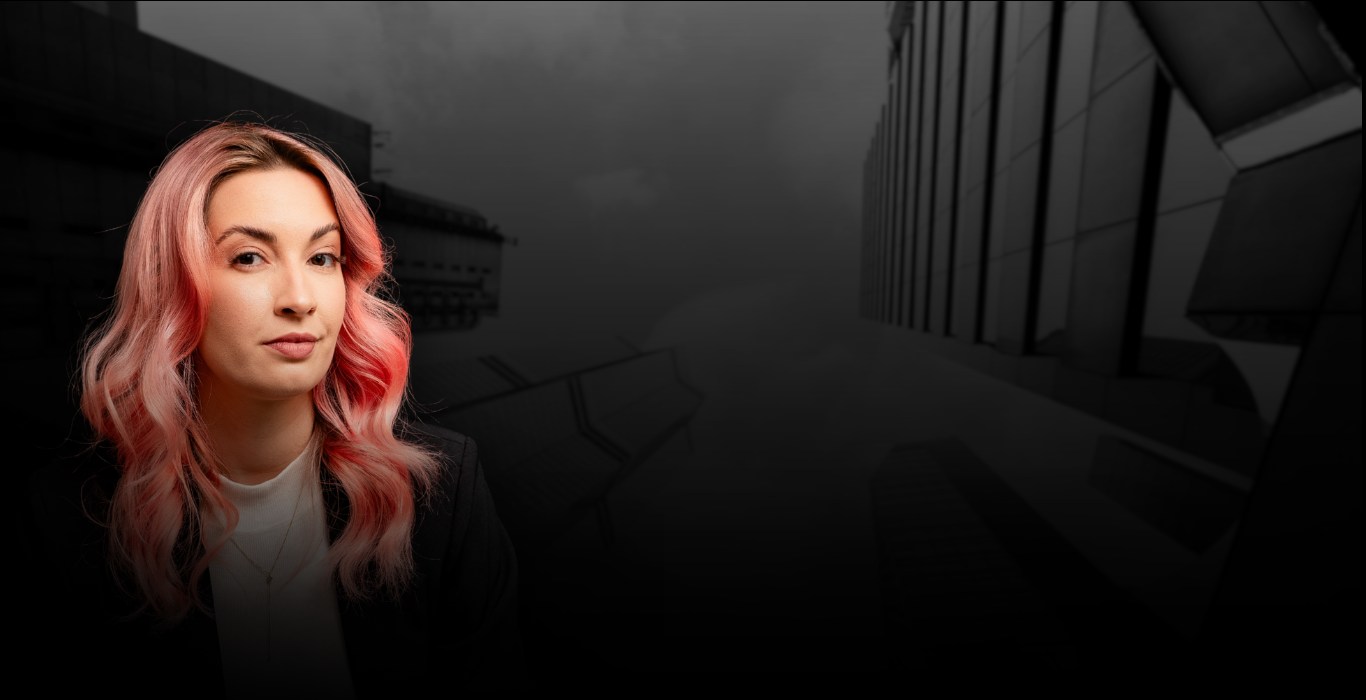
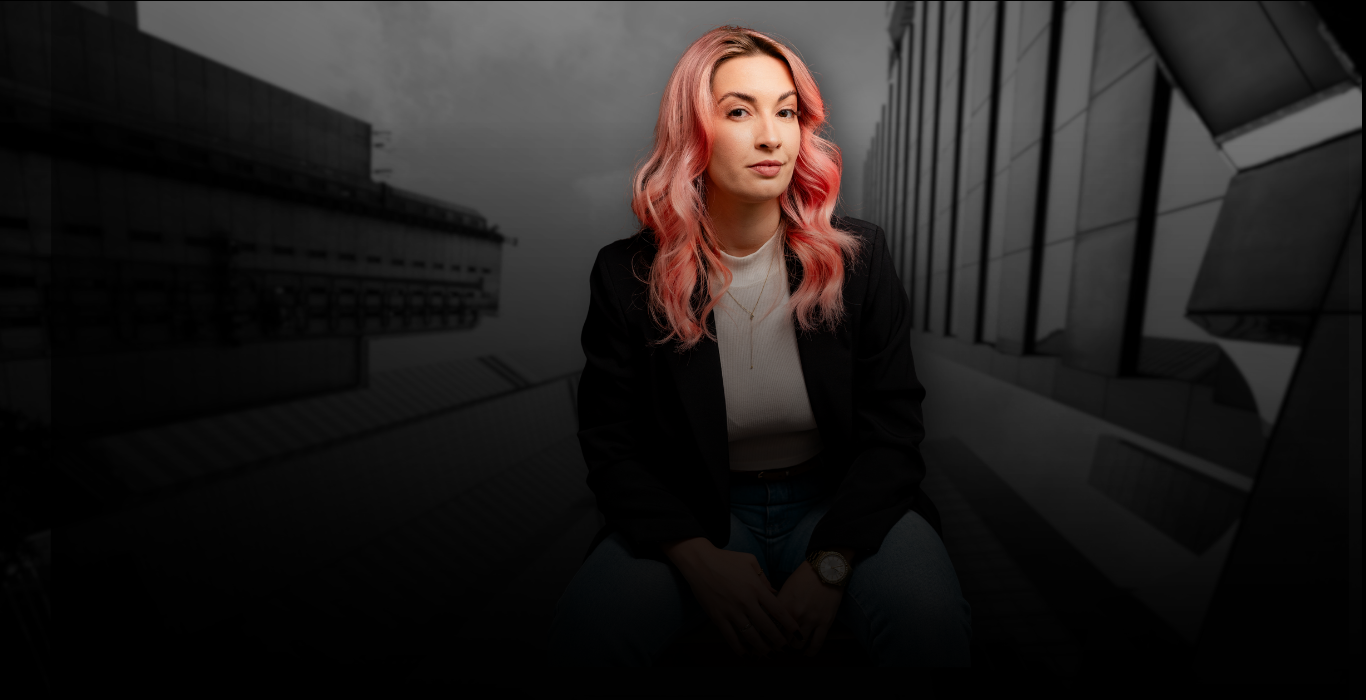
imagens operação impulse

diff --git a/style.css b/style.css
@@ -912,7 +912,7 @@ html, body {
     max-width: 1400px;
     margin: 0 auto;
     z-index: 0;
-    background-image: url('opimpulse-secao3-praqueme.png');
+    background-image: url('imagens-operacaoimpulse/opimpulse-secao3-praqueme-desktop.png');
     background-size: cover;
     background-position: center;
 }
@@ -1209,7 +1209,7 @@ html, body {
     max-width: 1400px;
     margin: 0 auto;
     z-index: 0;
-    background-image: url('operacaoimpulse-resultadosreais.png');
+    background-image: url('imagens-operacaoimpulse/resultadosreais-operacaoimpulse-desktop.png');
     background-size: cover;
     background-position: center;
 }
@@ -1251,7 +1251,7 @@ html, body {
     max-width: 1400px;
     margin: 0 auto;
     z-index: 0;
-    background-image: url('operacaoimpulse-quemethais.png');
+    background-image: url('imagens-operacaoimpulse/quemethais-operacaoimpulse-desktop.png');
     background-size: cover;
     background-position: center;
 }
@@ -1355,7 +1355,7 @@ html, body {
     max-width: 1400px;
     margin: 0 auto;
     z-index: 0;
-    background-image: url('operacaoimpulse-paginafinal.png');
+    background-image: url('imagens-operacaoimpulse/paginafinal-operacaoimpulse-desktop.png');
     background-size: cover;
     background-position: center;
 }
@@ -3488,6 +3488,10 @@ html, body {
         justify-content: flex-start;
     }
 
+    .paraquem-bg {
+        background-image: url('imagens-operacaoimpulse/opimpulse-secao3-praqueme-mobile.png');
+    }
+
     .paraquem-grid {
         grid-template-columns: 1fr;
     }
@@ -3516,6 +3520,7 @@ html, body {
     }
 
     .quemteguia-bg {
+        background-image: url('imagens-operacaoimpulse/quemethais-operacaoimpulse-mobile.png');
         background-position: right top;
     }
 
@@ -3538,5 +3543,13 @@ html, body {
 
     .resultados {
         min-height: 400px;
+    }
+
+    .resultados-bg {
+        background-image: url('imagens-operacaoimpulse/resultadosreais-operacaoimpulse-mobile.png');
+    }
+
+    .impulse-final-bg {
+        background-image: url('imagens-operacaoimpulse/paginafinal-operacaoimpulse-mobile.png');
     }
 }
